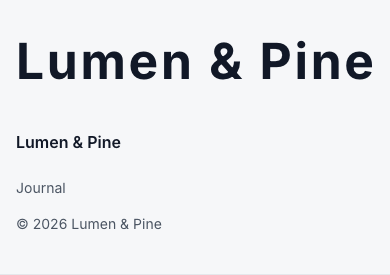
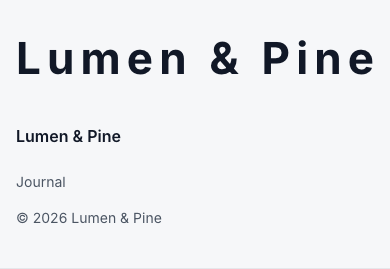
fix(astro-kit): the wordmark only ever adds letter spacing, and none for a script it would break
wordmarkBox guesses each letter's width on the wide side (full-width 1.05em, M/W/m/w 1em, capitals and digits
0.8em, other letters 0.65em), so a name's natural width stays at or under the box and lengthAdjust spacing never draws
letters over each other; full-width names sit on a lower baseline. A name in a script letter spacing breaks (Arabic,
Hebrew, the Indic and Southeast Asian scripts: the starter's no-tracking set) gets no wordmark. Fixtures: upper, ja, ar
(t2's read of #580).

diff --git a/packages/astro-kit/components/footer/footer.ts b/packages/astro-kit/components/footer/footer.ts
@@ -53,12 +53,38 @@ export function footerLinkSizeClasses(i: Pick<FooterVarsInput, 'linkSize' | 'lin
 }
 
 /**
- * The wordmark's SVG box (1000 wide) for a site name: the font size that makes the name about 1000 wide at 0.6em a
- * letter (its text is then stretched to exactly 1000 by letter spacing), the baseline under the capitals and the box's
- * height. `fit` keeps room for descenders; `crop` ends the box halfway up the capitals, so the footer cuts the letters.
+ * Scripts that letter spacing breaks: joined (Arabic, Syriac, Thaana, N'Ko, Mongolian), set without it (Hebrew), or
+ * built of clusters it splits (Indic and Southeast Asian), the same set the starter's stylesheet takes tracking from.
+ * The wordmark is stretched by letter spacing, so a name in one of them gets none.
  */
-export function wordmarkBox(name: string, mode: 'fit' | 'crop'): { size: number, baseline: number, height: number } {
-  const size = Math.round(1000 / (Math.max([...name.trim()].length, 1) * 0.6))
-  const baseline = Math.round(size * 0.78)
-  return { size, baseline, height: mode === 'fit' ? Math.round(size * 1) : Math.round(size * 0.42) }
+const UNSPACED = /[\p{Script=Arabic}\p{Script=Syriac}\p{Script=Thaana}\p{Script=Nko}\p{Script=Mongolian}\p{Script=Hebrew}\p{Script=Devanagari}\p{Script=Bengali}\p{Script=Gurmukhi}\p{Script=Gujarati}\p{Script=Oriya}\p{Script=Tamil}\p{Script=Telugu}\p{Script=Kannada}\p{Script=Malayalam}\p{Script=Sinhala}\p{Script=Thai}\p{Script=Lao}\p{Script=Khmer}\p{Script=Myanmar}\p{Script=Tibetan}]/u
+/** Full-width letters: CJK ideographs, kana, hangul and the full-width forms. */
+const FULL = /[\p{Script=Han}\p{Script=Hiragana}\p{Script=Katakana}\p{Script=Hangul}\u3000-\u303F\uFF00-\uFFEF]/u
+
+/**
+ * A letter's width in em, guessed on the wide side for a bold heading face: the name's natural width then stays at or
+ * under the box, so the stretch only ever adds letter spacing and never draws letters over each other.
+ */
+function letterWidth(letter: string): number {
+  if (FULL.test(letter)) return 1.05
+  if (/\s/u.test(letter)) return 0.3
+  if (/[MWmw@&%]/u.test(letter)) return 1
+  if (/[\p{Lu}\p{N}]/u.test(letter)) return 0.8
+  if (/\p{L}/u.test(letter)) return 0.65
+  return 0.45
+}
+
+/**
+ * The wordmark's SVG box (1000 wide) for a site name, or none for a name letter spacing would break. The font size makes
+ * the name's guessed width 1000 (its text is then stretched to exactly 1000 by letter spacing); the baseline sits under
+ * the tallest letters (lower for full-width ones, which rise higher), and `fit` keeps room for descenders under it while
+ * `crop` ends the box halfway up the letters, so the footer cuts them.
+ */
+export function wordmarkBox(name: string, mode: 'fit' | 'crop'): { size: number, baseline: number, height: number } | undefined {
+  const letters = [...name.trim()]
+  if (letters.length === 0 || UNSPACED.test(name)) return undefined
+  const size = Math.floor(1000 / letters.reduce((sum, letter) => sum + letterWidth(letter), 0))
+  const rise = letters.some(letter => FULL.test(letter)) ? 0.88 : 0.78
+  const baseline = Math.round(size * rise)
+  return { size, baseline, height: mode === 'fit' ? Math.round(size * (rise + 0.22)) : Math.round(size * (rise - 0.36)) }
 }

diff --git a/templates/astro-starter/src/components/kit/footer/footer.ts b/templates/astro-starter/src/components/kit/footer/footer.ts
@@ -53,12 +53,38 @@ export function footerLinkSizeClasses(i: Pick<FooterVarsInput, 'linkSize' | 'lin
 }
 
 /**
- * The wordmark's SVG box (1000 wide) for a site name: the font size that makes the name about 1000 wide at 0.6em a
- * letter (its text is then stretched to exactly 1000 by letter spacing), the baseline under the capitals and the box's
- * height. `fit` keeps room for descenders; `crop` ends the box halfway up the capitals, so the footer cuts the letters.
+ * Scripts that letter spacing breaks: joined (Arabic, Syriac, Thaana, N'Ko, Mongolian), set without it (Hebrew), or
+ * built of clusters it splits (Indic and Southeast Asian), the same set the starter's stylesheet takes tracking from.
+ * The wordmark is stretched by letter spacing, so a name in one of them gets none.
  */
-export function wordmarkBox(name: string, mode: 'fit' | 'crop'): { size: number, baseline: number, height: number } {
-  const size = Math.round(1000 / (Math.max([...name.trim()].length, 1) * 0.6))
-  const baseline = Math.round(size * 0.78)
-  return { size, baseline, height: mode === 'fit' ? Math.round(size * 1) : Math.round(size * 0.42) }
+const UNSPACED = /[\p{Script=Arabic}\p{Script=Syriac}\p{Script=Thaana}\p{Script=Nko}\p{Script=Mongolian}\p{Script=Hebrew}\p{Script=Devanagari}\p{Script=Bengali}\p{Script=Gurmukhi}\p{Script=Gujarati}\p{Script=Oriya}\p{Script=Tamil}\p{Script=Telugu}\p{Script=Kannada}\p{Script=Malayalam}\p{Script=Sinhala}\p{Script=Thai}\p{Script=Lao}\p{Script=Khmer}\p{Script=Myanmar}\p{Script=Tibetan}]/u
+/** Full-width letters: CJK ideographs, kana, hangul and the full-width forms. */
+const FULL = /[\p{Script=Han}\p{Script=Hiragana}\p{Script=Katakana}\p{Script=Hangul}\u3000-\u303F\uFF00-\uFFEF]/u
+
+/**
+ * A letter's width in em, guessed on the wide side for a bold heading face: the name's natural width then stays at or
+ * under the box, so the stretch only ever adds letter spacing and never draws letters over each other.
+ */
+function letterWidth(letter: string): number {
+  if (FULL.test(letter)) return 1.05
+  if (/\s/u.test(letter)) return 0.3
+  if (/[MWmw@&%]/u.test(letter)) return 1
+  if (/[\p{Lu}\p{N}]/u.test(letter)) return 0.8
+  if (/\p{L}/u.test(letter)) return 0.65
+  return 0.45
+}
+
+/**
+ * The wordmark's SVG box (1000 wide) for a site name, or none for a name letter spacing would break. The font size makes
+ * the name's guessed width 1000 (its text is then stretched to exactly 1000 by letter spacing); the baseline sits under
+ * the tallest letters (lower for full-width ones, which rise higher), and `fit` keeps room for descenders under it while
+ * `crop` ends the box halfway up the letters, so the footer cuts them.
+ */
+export function wordmarkBox(name: string, mode: 'fit' | 'crop'): { size: number, baseline: number, height: number } | undefined {
+  const letters = [...name.trim()]
+  if (letters.length === 0 || UNSPACED.test(name)) return undefined
+  const size = Math.floor(1000 / letters.reduce((sum, letter) => sum + letterWidth(letter), 0))
+  const rise = letters.some(letter => FULL.test(letter)) ? 0.88 : 0.78
+  const baseline = Math.round(size * rise)
+  return { size, baseline, height: mode === 'fit' ? Math.round(size * (rise + 0.22)) : Math.round(size * (rise - 0.36)) }
 }

diff --git a/packages/astro-kit/tests/footer-wordmark-lines.test.ts b/packages/astro-kit/tests/footer-wordmark-lines.test.ts
@@ -7,13 +7,22 @@ const COMPONENTS = join(import.meta.dirname, '..', 'components')
 const read = (...path: string[]) => readFile(join(COMPONENTS, ...path), 'utf8')
 
 describe('the footer wordmark: the site name once more, as wide as the footer', () => {
-  it('sizes a box the name fills at about its natural width, and cuts it above the descenders for crop', () => {
-    // 9 letters at 0.6em: the font size that makes them ~1000 wide; the baseline under the capitals.
-    expect(wordmarkBox('Northwind', 'fit')).toEqual({ size: 185, baseline: 144, height: 185 })
-    expect(wordmarkBox('Northwind', 'crop')).toEqual({ size: 185, baseline: 144, height: 78 })
+  it('sizes a box the name fills at or under its width, letter by letter, so the stretch only adds spacing', () => {
+    expect(wordmarkBox('Northwind', 'fit')).toEqual({ size: 157, baseline: 122, height: 157 })
+    expect(wordmarkBox('Northwind', 'crop')).toEqual({ size: 157, baseline: 122, height: 66 })
+    // Capitals are guessed wider than lower case, full-width letters (CJK) at a full em with a lower baseline.
+    expect(wordmarkBox('NORTHWIND STUDIO', 'fit')!.size).toBeLessThan(wordmarkBox('Northwind Studio', 'fit')!.size)
+    expect(wordmarkBox('北風スタジオ', 'fit')).toEqual({ size: 158, baseline: 139, height: 174 })
     // Letters, not UTF-16 units, and the name's own spaces at its ends do not count.
-    expect(wordmarkBox(' Çay ', 'fit').size).toBe(wordmarkBox('Çay', 'fit').size)
-    expect(wordmarkBox('', 'fit').size).toBeGreaterThan(0)
+    expect(wordmarkBox(' Çay ', 'fit')).toEqual(wordmarkBox('Çay', 'fit'))
+  })
+
+  it('draws none for a name letter spacing would break (joined and clustered scripts), or no name', () => {
+    expect(wordmarkBox('استوديو الشمال', 'fit')).toBeUndefined()
+    expect(wordmarkBox('סטודיו צפון', 'crop')).toBeUndefined()
+    expect(wordmarkBox('उत्तर स्टूडियो', 'fit')).toBeUndefined()
+    expect(wordmarkBox('สตูดิโอ', 'fit')).toBeUndefined()
+    expect(wordmarkBox('  ', 'fit')).toBeUndefined()
   })
 
   it('is drawn only when asked for, hidden from screen readers, stretched to the box by letter spacing alone', async () => {

diff --git a/.changeset/kit-footer-wordmark.md b/.changeset/kit-footer-wordmark.md
@@ -2,4 +2,4 @@
 '@contentrain/astro-kit': minor
 ---
 
-Footer gains `wordmark` and `wordmarkOrder`. `fit` draws the site name once more as a row exactly as wide as the footer, in the heading font and the footer's ink; `crop` lets the footer's bottom edge cut it, so only the letters' top shows. It is an SVG text stretched to the row by letter spacing, so any name fills it at every width, and it is hidden from screen readers (the name is already the footer's brand). `wordmarkOrder: 'first'` puts the row before the rest. The default, `none`, draws the footer exactly as before.
+Footer gains `wordmark` and `wordmarkOrder`. `fit` draws the site name once more as a row exactly as wide as the footer, in the heading font and the footer's ink; `crop` lets the footer's bottom edge cut it, so only the letters' top shows. It is an SVG text stretched to the row by letter spacing, so any name fills it at every width (its size is guessed letter by letter on the wide side, so the stretch only adds spacing; a name in a script letter spacing breaks, such as Arabic, Hebrew or an Indic one, gets no wordmark), and it is hidden from screen readers (the name is already the footer's brand). `wordmarkOrder: 'first'` puts the row before the rest. The default, `none`, draws the footer exactly as before.
